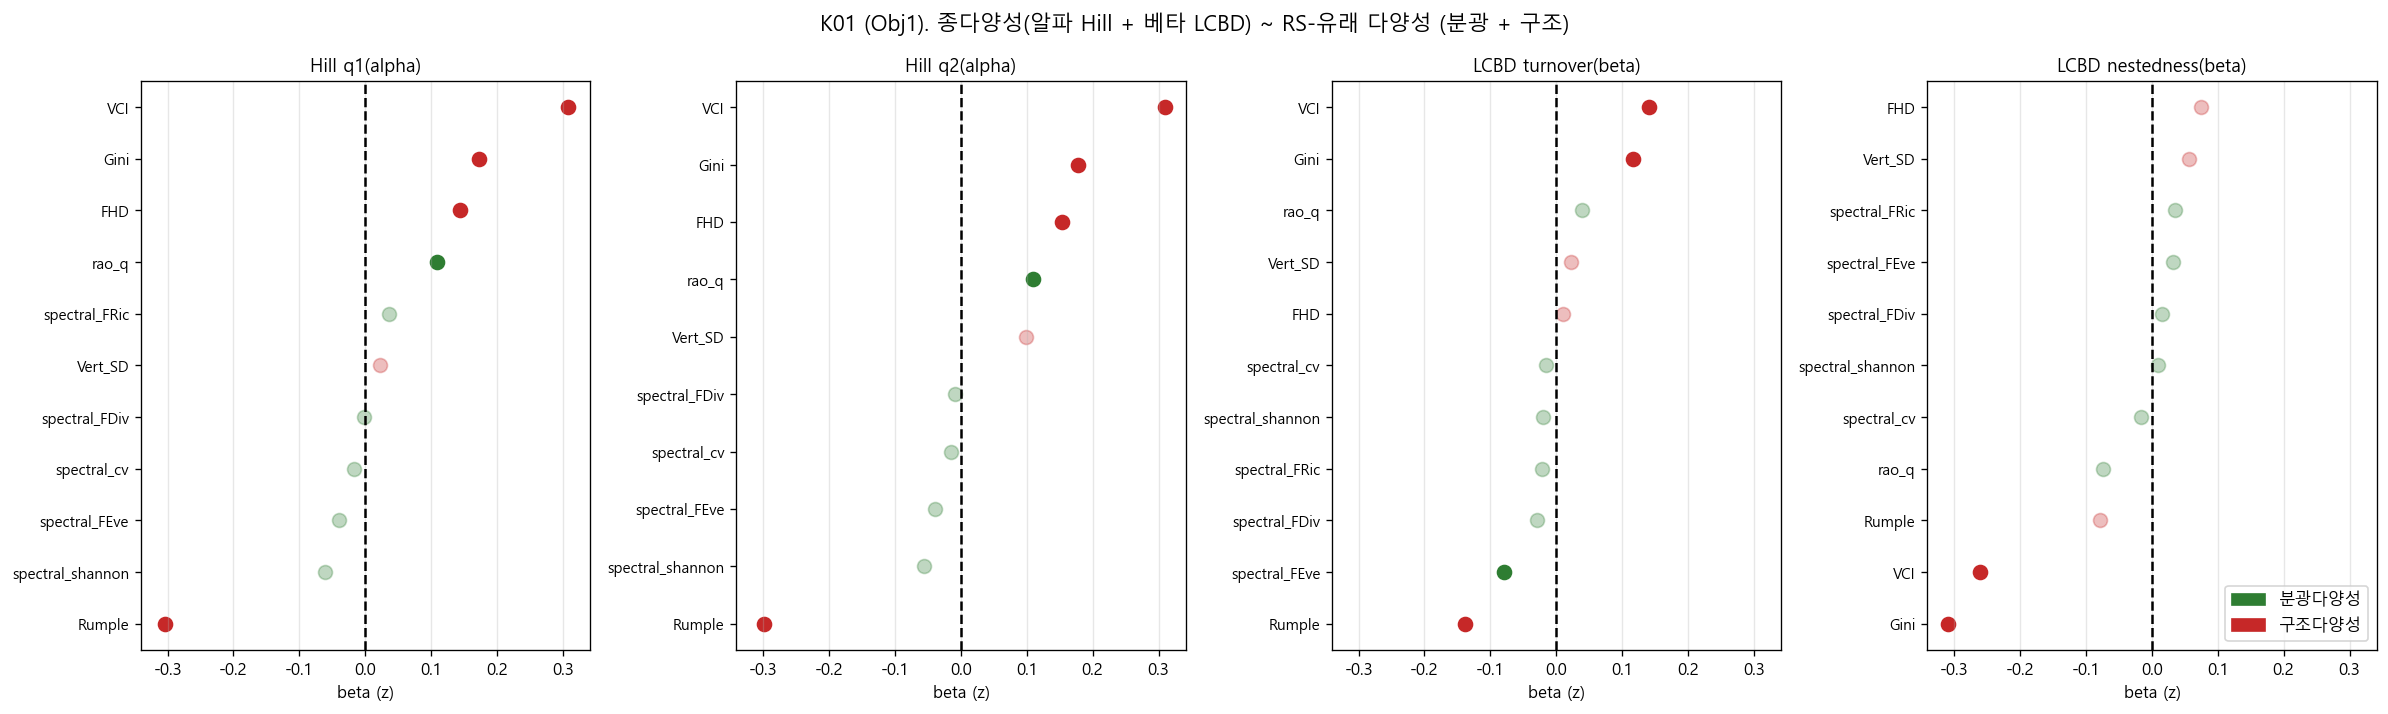
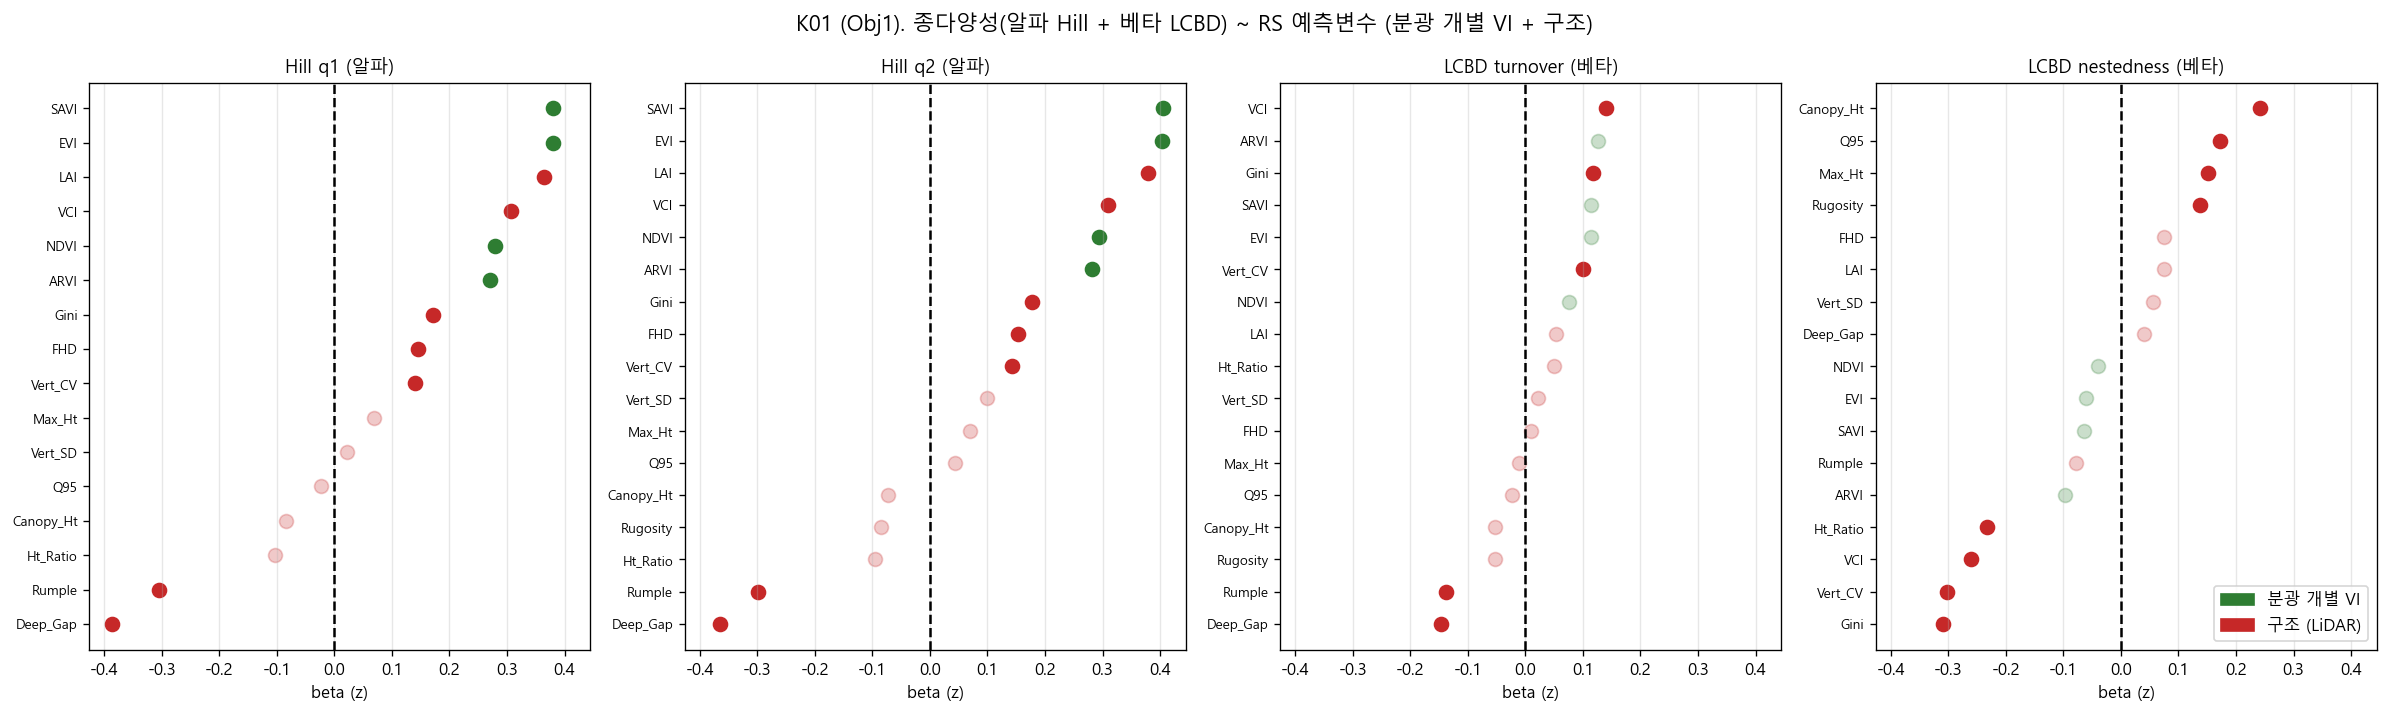
Obj1 spectral: individual VIs instead of combined spectral diversity
K01 now shows individual NEON BRDF VIs (NDVI/EVI/ARVI/SAVI) vs structural
LiDAR, from v2_coeff.csv (mean feature), replacing combined spectral
diversity (Rao Q/FEve). Result sharpens: alpha driven by spectral VI
(SAVI/EVI +0.38, top predictors) + structure; beta structural-only.

diff --git a/NEON_v2/scripts/obj23/110_gap_figures.py b/NEON_v2/scripts/obj23/110_gap_figures.py
@@ -12,19 +12,24 @@ ROOT=r"C:\Users\star1\Documents\GitHub\NEON_Resilience\NEON_v2"
 D,F,R=os.path.join(ROOT,"data"),os.path.join(ROOT,"figures"),os.path.join(ROOT,"results")
 def save(fig,n): fig.savefig(os.path.join(F,n),dpi=120,bbox_inches='tight'); plt.close(fig); print(" saved",n)
 
-# ===== K01: Obj1 forest — spectral vs structural diversity =====
-o1=pd.read_csv(os.path.join(R,"obj1_specdiv.csv"))
-resps=['Hill q1(alpha)','Hill q2(alpha)','LCBD turnover(beta)','LCBD nestedness(beta)']
-catc={'spectral_div':'#2e7d32','structural_div':'#c62828'}
+# ===== K01: Obj1 forest — individual spectral VIs vs structural LiDAR =====
+# Spectral = individual NEON .002 BRDF VIs (NDVI/EVI/ARVI/SAVI), NOT combined spectral diversity.
+# Uses the main mixed-model coefficients (v2_coeff.csv), mean temporal feature.
+o1=pd.read_csv(os.path.join(R,"v2_coeff.csv")); o1=o1[o1.feature=='mean']
+resps=['Hill q1','Hill q2','Turnover(rare)','Nestedness(rare)']
+titles={'Hill q1':'Hill q1 (알파)','Hill q2':'Hill q2 (알파)',
+        'Turnover(rare)':'LCBD turnover (베타)','Nestedness(rare)':'LCBD nestedness (베타)'}
+catc={'VI':'#2e7d32','Structural':'#c62828'}
 fig,axes=plt.subplots(1,4,figsize=(20,6),sharex=True)
 for ax,rl in zip(axes,resps):
     d=o1[o1.response==rl].sort_values('beta')
     for i,(_,x) in enumerate(d.iterrows()):
-        ax.scatter(x['beta'],i,c=catc[x['kind']],s=70,alpha=1 if x['p']<0.05 else .3)
-    ax.set_yticks(range(len(d))); ax.set_yticklabels(d['predictor'],fontsize=9)
-    ax.axvline(0,color='k',ls='--'); ax.set_title(rl,fontsize=11); ax.set_xlabel("beta (z)"); ax.grid(axis='x',alpha=.3)
-axes[-1].legend(handles=[Patch(color=v,label={'spectral_div':'분광다양성','structural_div':'구조다양성'}[k]) for k,v in catc.items()],loc='lower right')
-fig.suptitle("K01 (Obj1). 종다양성(알파 Hill + 베타 LCBD) ~ RS-유래 다양성 (분광 + 구조)",fontsize=13)
+        ax.scatter(x['beta'],i,c=catc[x['category']],s=70,alpha=1 if x['p']<0.05 else .25)
+    ax.set_yticks(range(len(d))); ax.set_yticklabels(d['predictor'],fontsize=8)
+    ax.axvline(0,color='k',ls='--'); ax.set_title(titles[rl],fontsize=11); ax.set_xlabel("beta (z)"); ax.grid(axis='x',alpha=.3)
+axes[-1].legend(handles=[Patch(color=catc['VI'],label='분광 개별 VI'),
+                         Patch(color=catc['Structural'],label='구조 (LiDAR)')],loc='lower right')
+fig.suptitle("K01 (Obj1). 종다양성(알파 Hill + 베타 LCBD) ~ RS 예측변수 (분광 개별 VI + 구조)",fontsize=13)
 fig.tight_layout(); save(fig,"K01_obj1_rs_diversity.png")
 
 # ===== K02: Obj2 diversity ~ land-use heterogeneity =====

diff --git a/NEON_v2/docs/03_OBJECTIVES_COMPLETE.md b/NEON_v2/docs/03_OBJECTIVES_COMPLETE.md
@@ -5,16 +5,18 @@
 
 ---
 ## Obj 1 — RS 다양성 ↔ 종다양성 (다중스케일) ✅
-**RS-유래 다양성(구조+분광) ↔ 종다양성(알파 Hill + 베타 LCBD)**, domain>site>plot.
+**RS 예측변수(구조 LiDAR + 분광 개별 VI) ↔ 종다양성(알파 Hill + 베타 LCBD)**, domain>site>plot.
+> 분광 = 개별 VI(NDVI·EVI·ARVI·SAVI) 직접 사용. 합친 분광다양성(Rao Q·FEve·FDiv)은 Obj1에서 제외(script 100·obj1_specdiv.csv는 보관용). PRI·fPAR 제외 유지.
 
-| 응답 | 주요 예측변수 |
+| 응답 | 주요 예측변수 (mean, p<0.05) |
 |---|---|
-| Hill q1/q2 (알파) | 구조: VCI +0.31, Rumple −0.30, Gini, FHD / 분광: **Rao Q +0.11** |
-| LCBD turnover (베타) | 구조: VCI, Rumple, Gini / 분광: **FEve −0.08** |
-| LCBD nestedness (베타) | 구조: Gini −0.31, VCI −0.26 |
+| Hill q1/q2 (알파) | 분광: **SAVI +0.38, EVI +0.38**, NDVI +0.28, ARVI +0.27 / 구조: LAI +0.36, VCI +0.31, Deep_Gap −0.39, Rumple −0.30, Gini +0.17 |
+| LCBD turnover (베타) | 구조: VCI +0.14, Gini +0.12, Deep_Gap −0.15, Rumple −0.14 / **분광 VI 전부 비유의** |
+| LCBD nestedness (베타) | 구조: Gini −0.31, Vert_CV −0.30, VCI −0.26, Canopy_Ht +0.24 / **분광 VI 전부 비유의** |
 
-- **구조다양성 > 분광다양성** (구조가 주 predictor, 분광이 독립적 보조 신호)
-- 그림 **K01** / 스크립트 03·04·100 / 결과 obj1_specdiv.csv
+- **알파: 분광 개별 VI(SAVI/EVI)가 최상위 예측변수**(구조 LAI/VCI와 동급·상회), **베타: 구조 전용**(분광 VI 비유의)
+- → 분광 VI = 알파(엽록소·생산성 신호), 구조 = 알파+베타(공간 조성 전환) 담당. 상호 보완.
+- 그림 **K01** / 스크립트 03·110 / 결과 v2_coeff.csv
 
 ## Obj 2 — 교란 + 토지이용 이질성 (시간) ✅
 상세: `02_OBJ2_SYNTHESIS.md`. 핵심:
@@ -36,7 +38,7 @@
 | 코드 | 내용 | 목적 |
 |---|---|---|
 | F01–F09 | 종다양성~RS(forest/scatter/분산분해/시계열/커플링) | Obj1 |
-| **K01** | 종다양성~RS유래다양성(분광+구조) | Obj1 |
+| **K01** | 종다양성~RS예측변수(분광 개별 VI + 구조) | Obj1 |
 | G01–G02 | 다양성~Sentinel DHI (선형) | Obj3 |
 | **L03** | ★ 생산성–다양성 **혹형**(GAM) | Obj3 |
 | L01–L02 | 비선형(다항식·GAM) 전체 검정 | Obj1–3 |